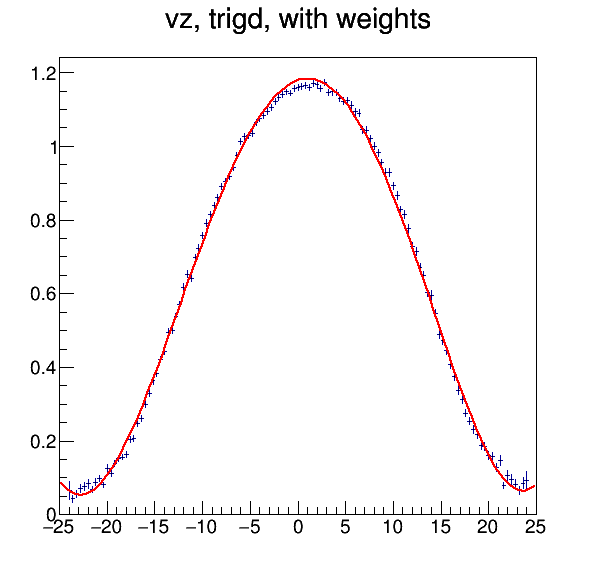
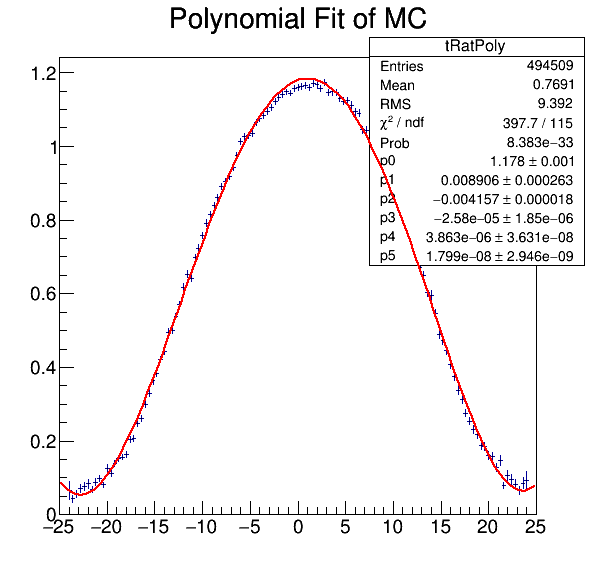
code updates

Changed region(s): [[0.604, 0.0594, 0.9664, 0.4755], [0.2718, 0.0, 0.7248, 0.0594]]

diff --git a/vzEvtWeights/vzEvtWeights.C b/vzEvtWeights/vzEvtWeights.C
@@ -9,6 +9,7 @@
 // ROOTSYS
 #include <TSystem.h>
 #include <TProfile.h>
+#include <TROOT.h>
 // I/O
 #include <TChain.h>
 #include <TFile.h>
@@ -60,6 +61,7 @@ const std::string input_ppMC_Filename=ppMC_inCondorDir+"Py8_CUETP8M1_QCDjetAllPt
 int main (int argc, char *argv[]){
   
   gStyle->SetOptFit(1111);
+  gROOT->ForceStyle();
   
   std::cout<<" now opening Data File "<<std::endl<<input_ppData_Filename<<std::endl<<std::endl;
   TFile* finData = new TFile(input_ppData_Filename.c_str());
@@ -110,7 +112,11 @@ int main (int argc, char *argv[]){
   TCanvas* TCanWeightRat = NULL;
   TCanvas* TCanWeightfn = NULL;
   TCanvas* TCanWeightbin = NULL;
+  TCanvas* TCanWeightpoly = NULL;
   TCanvas* TCanDatMCRat = NULL;
+  TCanvas* TCanBinPoly = NULL;
+  TCanvas* TCanGausPoly = NULL;
+  
   
  
   std::cout<<" now opening MC File "<<std::endl<<input_ppMC_Filename<<std::endl<<std::endl;
@@ -127,19 +133,25 @@ int main (int argc, char *argv[]){
   TCanWeightfn = new TCanvas("TCanWeightfn","Weight from Function",600,600);
   TCanWeightbin = new TCanvas("TCanWeightbin","Weight from Bin",600,600);
   TCanDatMCRat = new TCanvas("TCanDatMCRat","Data / MC ratio",600,600);
+  TCanWeightpoly = new TCanvas("TCanWeightpoly","Weight from Polynomial",600,600);
+  TCanBinPoly = new TCanvas("TCanBinPoly","Bin / Poly ratio",600,600);
+  TCanGausPoly = new TCanvas("TCanGausPoly","Gaus / Poly ratio",600,600);
   
   //TH1F *theRatio=(TH1F*)theDataEvtQAHist->Clone("theDataHistClone"); I'm going to replace this with the rebin which should make its own clone
   double norm = theRatio->GetMaximumStored();
   
   TH1F* binWeight = new TH1F("binWeight","Bin-based Weight",125,-25,25);
   TH1F* fnWeight = new TH1F("fnWeight","Fn-based Weight",125,-25,25);
+  TH1F* tPolyweight = new TH1F("tPolyweight","Polynomial-based Weight",125,-25,25); 
   
   //make fit functions
   fgaussData = new TF1("fgaussData","gaus", -24, 24);
   fgaussData->SetParameters(norm, 0.9999, 0.15); 
+  //fgaussData->Update();
 
   fgaussMC = new TF1("fgaussMC","gaus", -24, 24);
   fgaussMC->SetParameters(norm, 0.9999, 0.15); 
+  
  
   fpolyRat = new TF1("fpolyRat","pol5", -25,25);
   
@@ -155,11 +167,13 @@ int main (int argc, char *argv[]){
   
   //Compare fit to histogram
   TCanMC->cd();
+  theMCEvtQAHist->SetTitle("Gaussian Fit of MC");
   theMCEvtQAHist->Draw();
   fgaussMC->Draw("same");
   TCanMC->Print("gaussfitMC.png","png");
   
   TCanData->cd();
+  theRatio->SetTitle("Gaussian Fit of Data");
   theRatio->Draw();
   fgaussData->Draw("same");
   TCanData->Print("gaussfitData.png","png");
@@ -196,8 +210,12 @@ int main (int argc, char *argv[]){
 	Double_t gaussMC = fgaussMC->Eval(theMCEvtQAHist->GetBinLowEdge(i)+(theMCEvtQAHist->GetBinWidth(i))/2);
 	Double_t gaussData = fgaussData->Eval(theMCEvtQAHist->GetBinLowEdge(i)+(theMCEvtQAHist->GetBinWidth(i))/2);
 	Double_t gaussFit = (gaussData/gaussMC);
+	Double_t polyFit = fpolyRat->Eval(theMCEvtQAHist->GetBinLowEdge(i)+(theMCEvtQAHist->GetBinWidth(i))/2);
+	
 	//Double_t test = 0.4;
 	fnWeight->SetBinContent(i,gaussFit);
+	tPolyweight->SetBinContent(i,polyFit);
+	
 		
     if(theRatio->GetBinContent(i)<=0.)
       std::cout<<"warning! bin content in data hist zero (numerator)"<<std::endl;
@@ -224,23 +242,46 @@ int main (int argc, char *argv[]){
 
  TCanWeightfn->cd();
  fnWeight->Draw();
- TCanWeightfn->Print("fnWeight.png","png");
+ TCanWeightfn->Print("weightFn.png","png");
 
  TCanWeightbin->cd();
  binWeight->Draw();
- TCanWeightbin->Print("binWeight.png","png"); 
+ TCanWeightbin->Print("weightBin.png","png"); 
 	  
-  TH1F* fweightRatio = (TH1F*)binWeight->Clone("fweightRatio");
-  fweightRatio->Divide(fnWeight);
-  TCanWeightRat->cd();
-  fweightRatio->Draw();
-  TCanWeightRat->Print("WeightRatio.png","png");
+ TCanWeightpoly->cd();
+ tPolyweight->Draw();
+ TCanWeightpoly->Print("weightPoly.png","png");
+	  
+	  
+ TH1F* tweightRatio = (TH1F*)binWeight->Clone("tweightRatio");
+ tweightRatio->Divide(fnWeight);
+ tweightRatio->SetTitle("Ratio of Bin Weights to Function Weights");
+ TCanWeightRat->cd();
+ tweightRatio->Draw();
+ TCanWeightRat->Print("WeightRatio.png","png");
   
+ TH1F* tBinPolyRatio = (TH1F*)binWeight->Clone("tBinPolyRatio");
+ tBinPolyRatio->Divide(tPolyweight);
+ tBinPolyRatio->SetTitle("Ratio of Bin Weights to Polynomial Weights");
+ TCanBinPoly->cd();
+ tBinPolyRatio->Draw();
+ TCanBinPoly->Print("PolyBinRatio.png","png");
+ 
+ TH1F* tGausPolyRatio = (TH1F*)fnWeight->Clone("tGausPolyRatio");
+ tGausPolyRatio->Divide(tPolyweight);
+ tGausPolyRatio->SetTitle("Ratio of Gaussian Weights to Polynomial Weights");
+ TCanGausPoly->cd();
+ tGausPolyRatio->Draw();
+ TCanGausPoly->Print("PolyGausRatio.png","png");
+  
+ 
  TCanDatMCRat->cd();
+ tRatPoly->SetTitle("Polynomial Fit of MC");
  tRatPoly->Draw();
  fpolyRat->Draw("same");
  TCanDatMCRat->Print("PolynomialFit.png","png");
-  
+
+std::cout<<"program end"<<std::endl; 
   
   return 0 ;
 }
